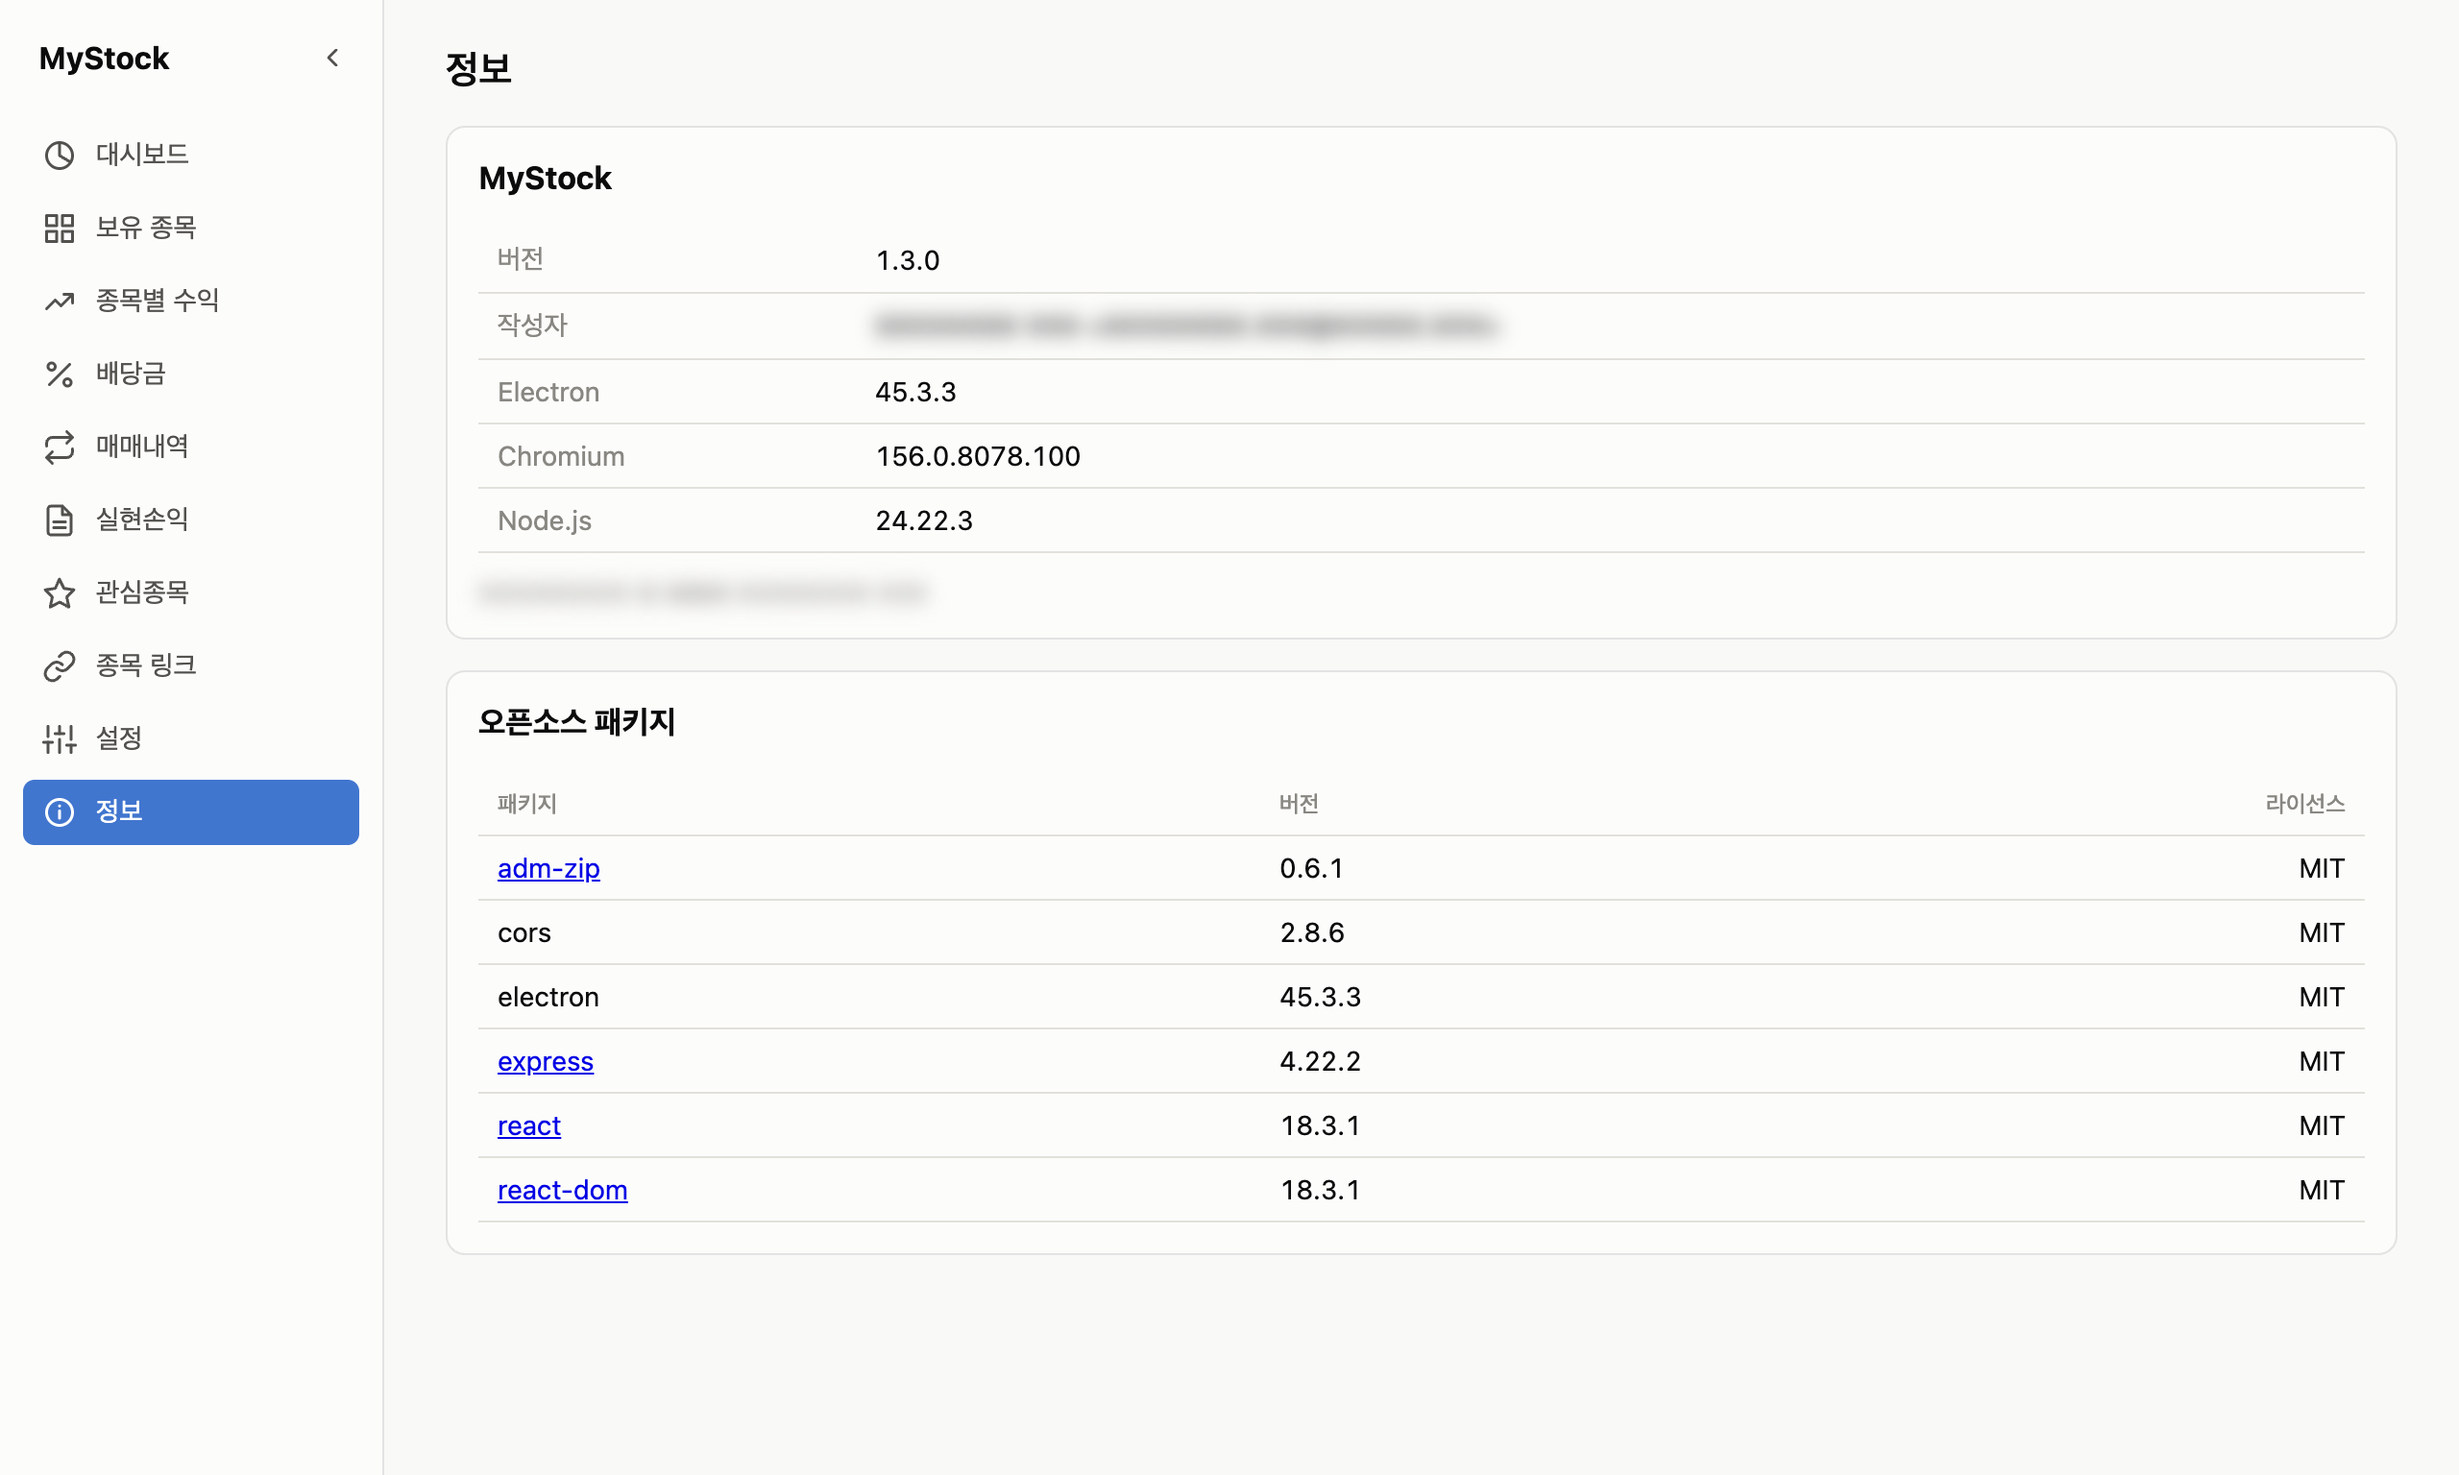
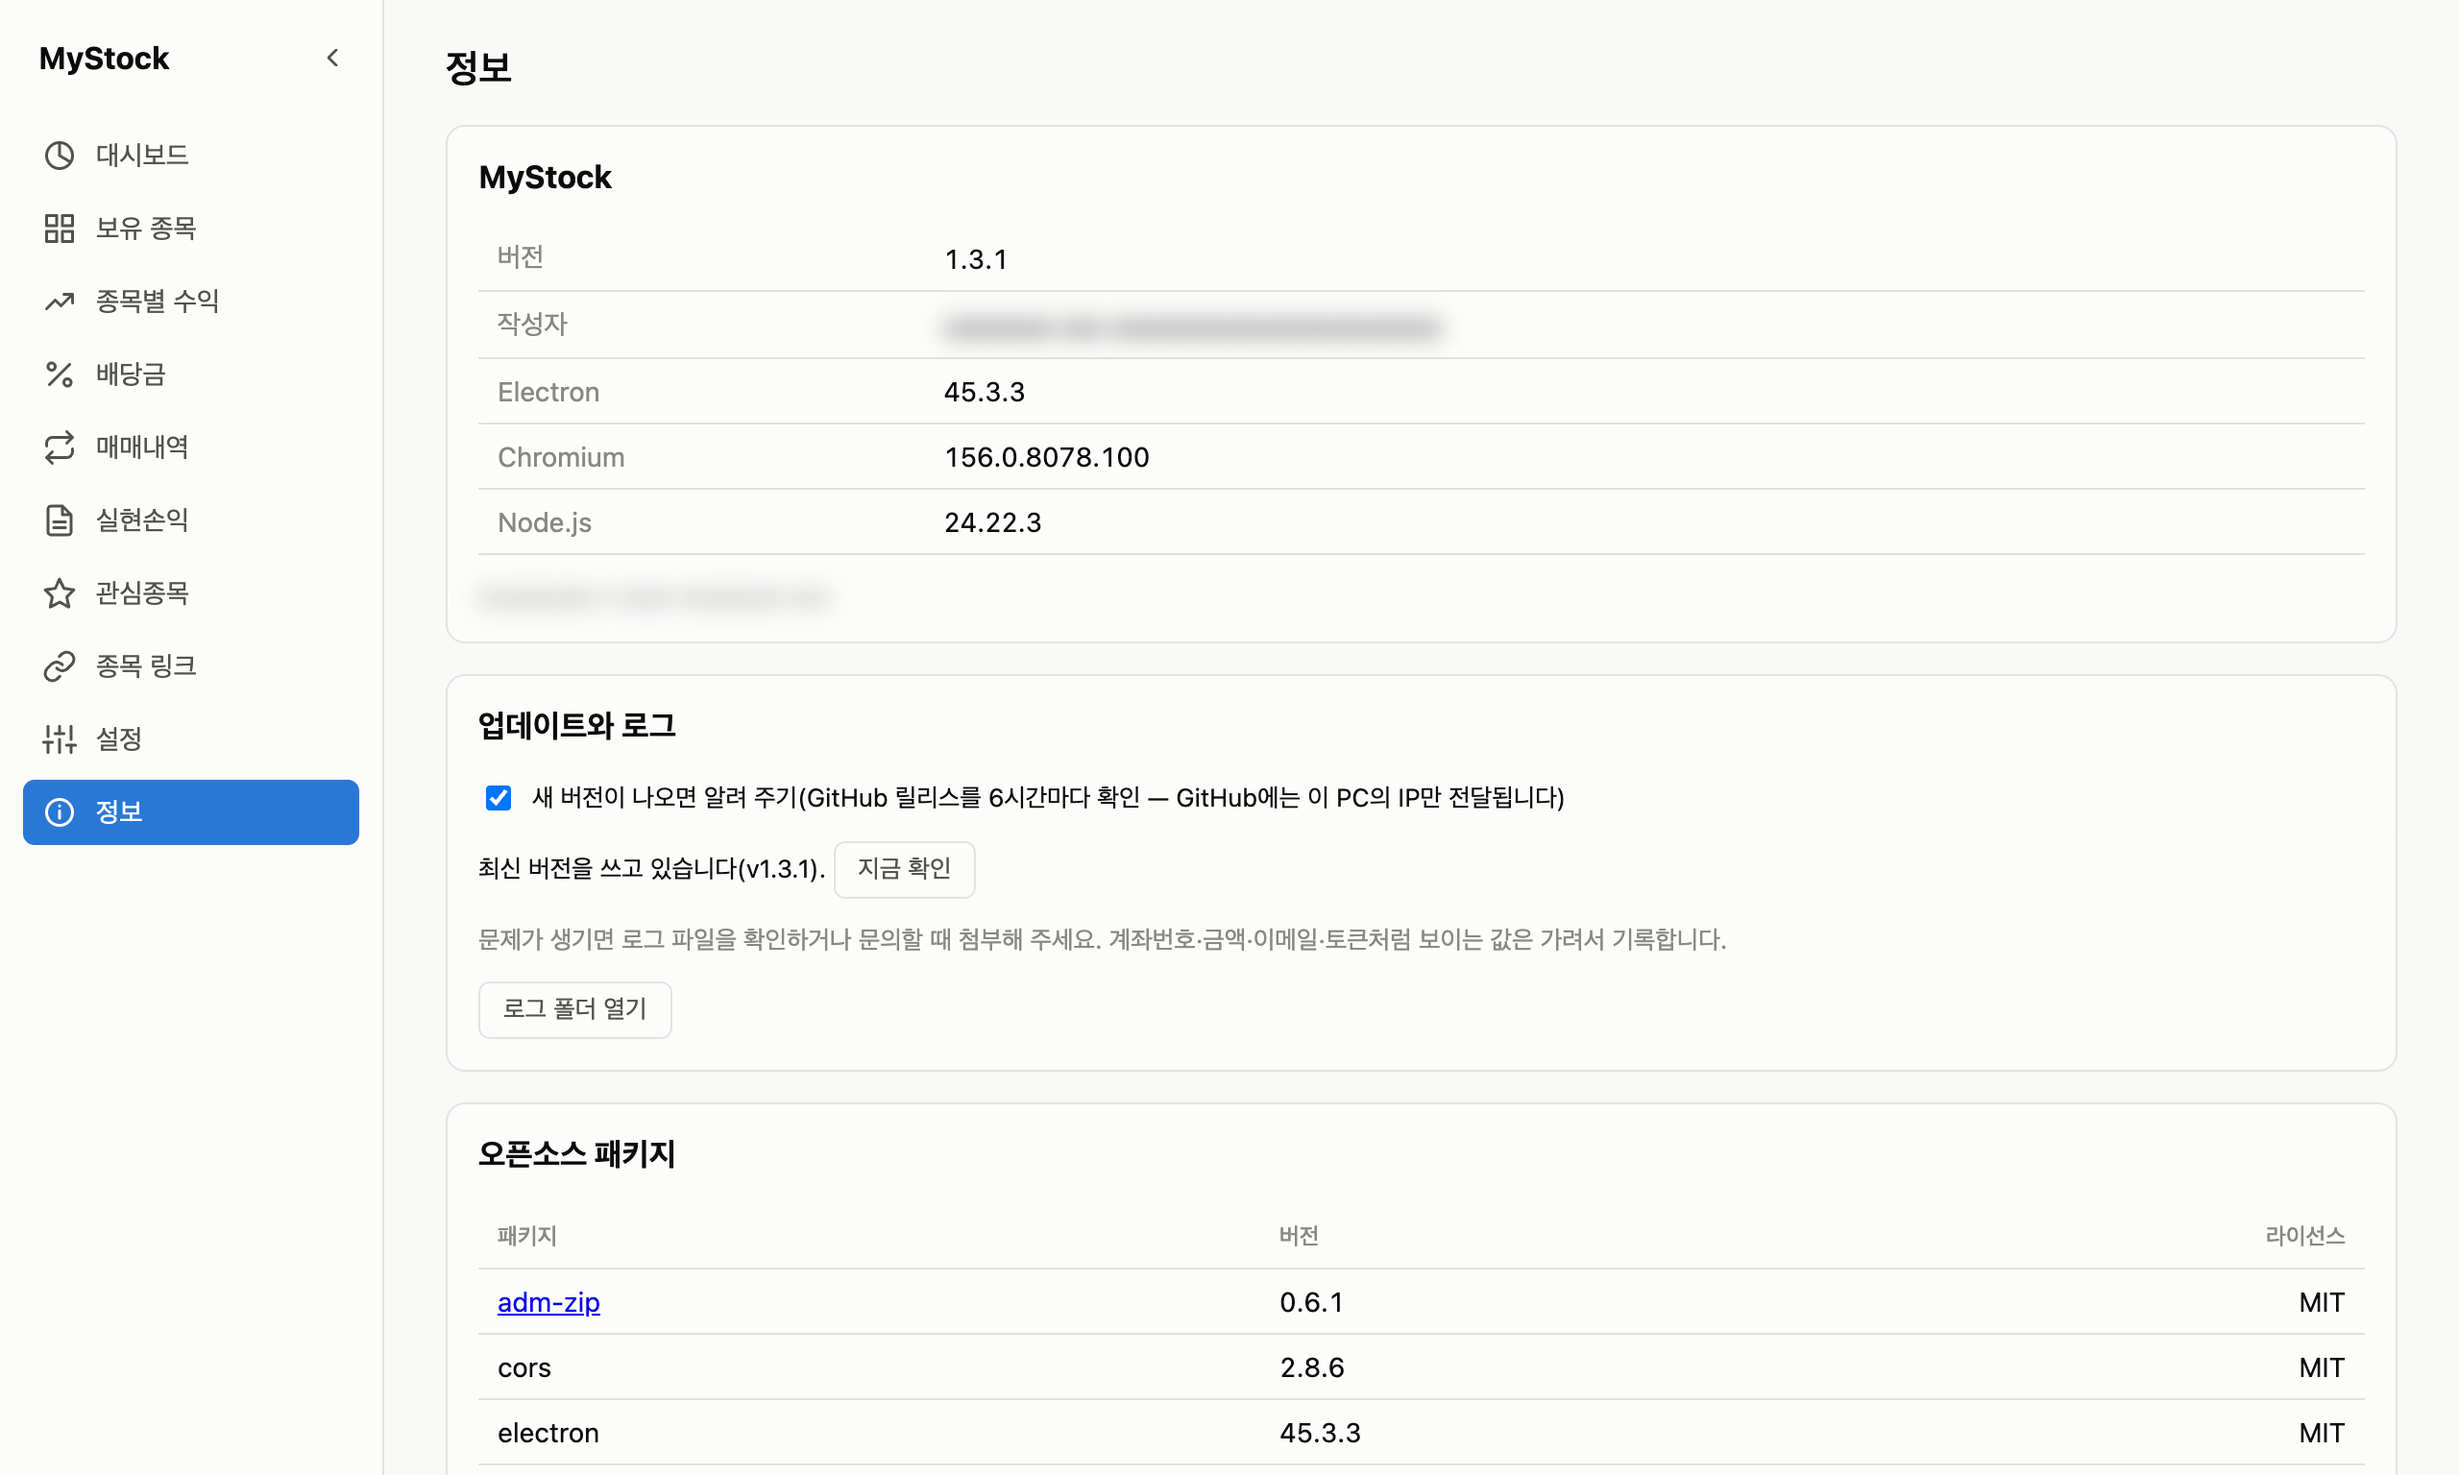
chore: v1.3.1 — 자동 백업·새 버전 알림·로그 파일·화면 오류 격리, 큰 파일 분할
- version 1.3.1(version.json·package.json·package-lock.json), CHANGELOG "다음 버전" → v1.3.1 절
- 매뉴얼 머리말·README 최신 버전, 정보 화면 스크린샷(10-about) 재촬영 — 업데이트와 로그 카드 포함

diff --git a/README.md b/README.md
@@ -23,7 +23,7 @@
   - 릴리스마다 `SHA256SUMS.txt`가 함께 올라갑니다 — 받은 파일이 진짜인지 확인하는 방법은
     [매뉴얼의 "받은 파일 확인하기"](doc/user-manual.md#받은-파일-확인하기-선택)를 보세요.
 - **사용자 매뉴얼**: [`doc/user-manual.md`](doc/user-manual.md) — 화면별 사용법, API 키 발급 안내(증권사·Google·한국수출입은행), 백업/복원, 문제 해결.
-- **변경 내역**: [`CHANGELOG.md`](CHANGELOG.md) — 버전별 새 기능과 수정(최신 v1.3.0). 새 버전으로 바꿔 설치해도 데이터와 API 키는 그대로 남습니다
+- **변경 내역**: [`CHANGELOG.md`](CHANGELOG.md) — 버전별 새 기능과 수정(최신 v1.3.1). 새 버전으로 바꿔 설치해도 데이터와 API 키는 그대로 남습니다
   ([매뉴얼의 "새 버전으로 업데이트"](doc/user-manual.md#새-버전으로-업데이트)).
 - ⚠ 설치 파일은 **OS별 코드 서명 인증서로 서명되어 있지 않아** 처음 실행할 때 macOS·Windows가 막습니다.
   OS별 허용 방법(macOS 15부터는 우클릭 → 열기가 통하지 않음)은

diff --git a/CHANGELOG.md b/CHANGELOG.md
@@ -3,7 +3,10 @@
 MyStock의 버전별 변경 사항입니다. 설치 파일은 [GitHub Releases](https://github.com/ultracat/MyStockInfo/releases)에서 받습니다.
 기능별 사용법은 [사용자 매뉴얼](doc/user-manual.md)을 참고하세요.
 
-## 다음 버전 (미배포)
+## v1.3.1 — 2026-11-17
+
+**문제가 생겼을 때 알 수 있고, 실수를 되돌릴 수 있게** 다듬은 버전입니다. 하루 한 번 자동 백업과 시점 되돌리기, 새 버전 알림,
+로그 파일, 화면별 오류 격리가 들어갔습니다. 데이터와 API 키는 그대로 이어서 씁니다.
 
 ### 개선
 - **자동 백업**: 하루 한 번과 복원하기 직전에 데이터를 이 PC에 자동으로 남기고(최근 7개), 설정에서 원하는 시점으로 되돌릴 수 있습니다.
